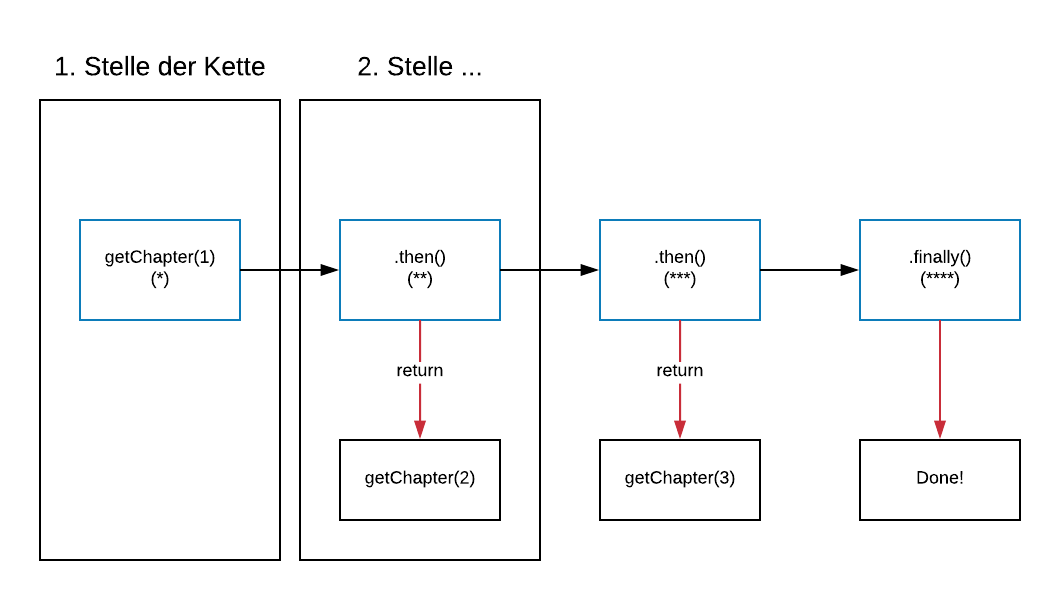
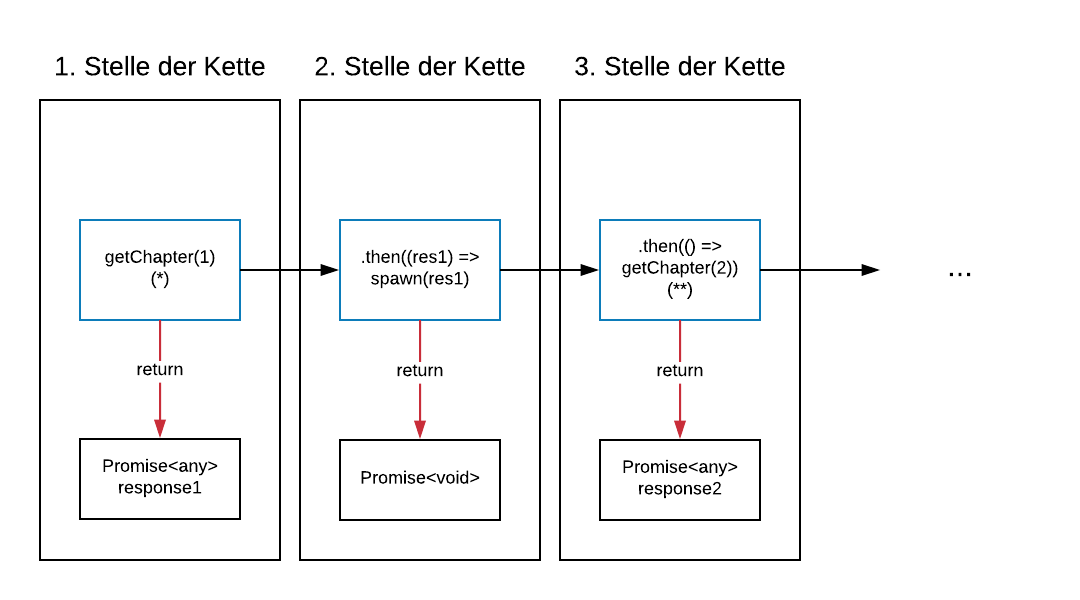
refactored partly promises and adjusted callbacks now need to refactor beginning of promise section and than im done

diff --git a/promises.tex b/promises.tex
@@ -300,16 +300,16 @@ export class Story {
 
 const story = new Story();
 \end{lstlisting}
-\caption{Der Vorteil der Objektorientierung ist die Kapselung der Logik in: Endpunkt-Aufruf zur Verfügung stellen und Ergebnis des Endpunkt-Aufrufs abbilden.}
+\caption{Der Vorteil der Objektorientierung in diesem Fall ist die Kapselung der Logik in: Endpunkt-Aufruf anbieten und Endpunkt-Aufruf verarbeiten.}
 \end{figure}
 
 \noindent
-Ähnlich wie im Beispiel des Callback-Kapitels wird von der REST-API JSONPlaceholder Kapitel in die DOM geladen. In diesem Fall wurde hingegen das objektorientierte Paradigma gewählt. Die Klasse \textbf{HTTP} stellt mit makeRequest() eine Http-Anfrage gegen einen übergebenen Endpunkt. Die \textbf{Fetch API} stellt ein Javascript Interface zur Verfügung um Ressourcen zwischen dem Netzwerk anzufragen. Im Gegensatz zur bisher genutzten Klasse \textbf{XMLHttpRequest}, gibt fetch ein Promise Objekt zurück. Mit der \textbf{Story} Klasse wird der Endpunkt der Datenabfrage als Klassenvariable definiert. Darüberhinaus werden mit getAllStories() und getChapter() die Methoden für die Abfrage definiert. Sollte ein Anwendungsfall sein, alle Kapitel anzuzeigen, würde der Code mit Promises so aussehen:
+Ähnlich wie im Beispiel des Callback-Kapitels wird von der REST-API JSONPlaceholder Kapitel in die DOM geladen. In diesem Fall wurde hingegen das objektorientierte Paradigma gewählt. Die Klasse \textbf{HTTP} macht mit makeRequest() eine Http-Anfrage gegen einen übergebenen Endpunkt. Die \textbf{Fetch API} stellt ein Javascript Interface zur Verfügung, um Ressourcen zwischen dem Netzwerk anzufragen. Im Gegensatz zur bisher genutzten Klasse \textbf{XMLHttpRequest}, gibt fetch() ein Promise Objekt zurück. Mit der \textbf{Story} Klasse wird der Endpunkt der Datenabfrage als Klassenvariable definiert. Darüberhinaus werden mit getAllStories() und getChapter() die Methoden für die Abfrage definiert. Sollte ein Anwendungsfall sein, alle Kapitel anzuzeigen, würde der Code mit Promises so aussehen:
 
 \begin{figure}[H]
 \begin{lstlisting}[basicstyle=\small]
 story.getAllStories()
-    .then((response: XMLHttpRequestResponseType) =>
+    .then((response) =>
         story.spawn(response)
     )
     .finally(() =>
@@ -323,13 +323,17 @@ Alle Kapitel werden mit einem Aufruf am Endpunkt angefragt. Ist das Promise in d
 
 \begin{figure}[H]
 \begin{lstlisting}[basicstyle=\small]
+console.time('Promise-Verkettung');
 story.getChapter(1) // (*)
     .then((response1) => story.spawn(response1))
     .then(() => story.getChapter(2)) // (**)
     .then((response2) => story.spawn(response2))
     .then(() => story.getChapter(3)) // (***)
     .then((response3) => story.spawn(response3))
-    .finally(() => story.displayFinished());
+    .finally(() => {
+        story.displayFinished();
+        console.timeEnd('Promise-Verkettung');
+    });
 \end{lstlisting}
 \caption{Promise-Verkettung für sequentielle Ausführungen}
 \label{Promises-sequential-calls}
@@ -339,9 +343,11 @@ story.getChapter(1) // (*)
 In diesem Fall werden nacheinander drei Kapitel angefragt und im Browser angezeigt. Da die Aufrufe im verketteten Konstrukt voneinander abhängig sind, addiert sich die Zeit die gebraucht wird, um ein Kapitel anzufragen und abzubilden. Die Idee dahinter ist, dass nach jedem Kapitelaufruf und -anzeige gewartet wird, bis dieser Vorgang abgeschlossen ist. Der Fluss sieht dabei so aus:
 
 \begin{enumerate}
-    \item Das initiale Promise wird aufgerufen und das Kapitel angezeigt. Das Promise gelangt in den settled Status. (*)
-    \item Die nächste Stelle der Sequenz wird gestartet, diese endet erst, wenn die Operation innerhalb der then() Methode erfüllt ist (**)
-    \item Die nächste Stelle der Sequenz wird initiiert...(***)
+    \item Das erste Promise getChapter(1) wird aufgerufen (*). Der Status dieses Promise ist erstmal im pending Zustand.
+    \item Bei Ankunft der Antwort, gelangt getChapter(1) in den settled Zustand. Die Daten \textit{response1} werden mit spawn(\textit{response1}) in einer neuen Stelle der Kette in die DOM geladen.
+    \item Das nächste Promise getChapter(2) wird aufgerufen (**). Der Status dieses Promise ist erstmal im pending Zustand. 
+    \item Bei Ankunft der Antwort, gelangt getChapter(2) in den settled Zustand. Die Daten \textit{response2} werden mit spawn(\textit{response2}) in einer neuen Stelle der Kette in die DOM geladen.
+    ...
 \end{enumerate}
 
 \begin{figure}[H]
@@ -350,23 +356,7 @@ In diesem Fall werden nacheinander drei Kapitel angefragt und im Browser angezei
 \end{figure}
 
 \noindent
-Dieser Vorgang endet mit der finally() Verarbeitungsmethode. Zu beachten ist, dass das gesamte Verkettete Konstrukt in einem eigenen Thread läuft. Innerhalb dieses Threads verlaufen die Operationen jedoch sequentiell. Selbst bei einer weiteren Verzögerung der Kapitel innerhalb der Kette, wäre immer noch gewährleistet, dass die Kapitelaufrufe sequentiell ausgeführt werden:
-
-\begin{figure}[H]
-\begin{lstlisting}[basicstyle=\small]
-story.getChapter(1)
-    .then((response1) => story.spawn(response1))
-    .then(() =>
-        new Promise(resolve =>
-            setTimeout(() => resolve(story.getChapter(2)), 5000)))
-    .then((response2) => story.spawn(response2))
-    .then() => ...
-\end{lstlisting}
-\caption{Es wird eine weitere Verzögerung des Aufrufs von story.getChapter(2) auf weitere fünf Sekunden angewendet.}
-\end{figure}
-
-\noindent
-Das liegt daran, da die jeweilige then() Methode ein Promise-Objekt weiterreicht. Somit kann das nächste then() entsprechend nach entstandenem Status und Wert weiterarbeiten. Obwohl die Aufrufe in der Darstellung deutlich lesbarer als geschachtelte Callbacks sind, wird mit diesem Beispiel ebenfalls deutlich, dass bei Promise-Verkettungen der Code in die Länge gezogen wird. Zudem wird hier auch deutlich, dass asynchron Operationen ausgeführt werden. Eine zweite Variante ist, die Kapitel in einem Array Promise zu lagern und parallel mit Promise.all() auszuführen: 
+Dieser Vorgang endet mit der finally() Verarbeitungsmethode. Zu beachten ist, dass das gesamte verkettete Konstrukt in einem eigenen Thread läuft. Innerhalb dieses Threads verlaufen die Operationen sequentiell. Das liegt daran, da die jeweilige then() Methode ein Promise-Objekt weiterreicht. Somit kann das nächste then() entsprechend nach entstandenem Status und Wert weiterarbeiten. Obwohl die Aufrufe in der Darstellung deutlich lesbarer als ineinandergeschachtelte Callbacks sind, wird mit diesem Beispiel ebenfalls deutlich, dass bei Promise-Verkettungen der Code nun aneinandergeschachtelt ist. Es ist immer noch zur erkennen, dass Operationen nicht innerhalb des synchronen Flusses verarbeitet werden. Die nächste Variante ist, die Kapitel in einem Array Promise zu lagern und parallel mit Promise.all() auszuführen.
 
 \begin{figure}[H]
 \begin{lstlisting}[basicstyle=\small]
@@ -376,21 +366,32 @@ for (const n of [1, 2, 3]) {
     chapters.push(story.getChapter(n));
 }
 
+console.time('Promise-all');
 Promise.all(chapters).then((response) =>
     story.spawn(response)
-).finally(() =>
-    story.displayFinished()
-);
+).finally(() => {
+    story.displayFinished();
+    console.timeEnd('Promise-all');
+});
 \end{lstlisting}
 \caption{Promise.all(iterable) bekommt ein iterierbares Objekt als Parameter übergeben}
 \label{Promise-all-example}
 \end{figure}
 
 \noindent
-Ein Promise.all() kann dabei abhängig vom Übergabeparameter verschiedene Rückgabewerte haben. Sollte das eingegebene iterable Argument leer sein, wird Promise.all() synchron erfüllt. Wenn das eingegebene iterable Argument keine Promises enthält, kommt ein asynchron eingelöstes Promise heraus. In allen anderen Fällen gibt ein Promise.all() ein einzelnes ausstehendes Promise zurück, dass eintrifft wenn alle Promises innerhalb des übergebenen Promise-Arrays eingetroffen sind. Die Rückgabewerte entsprechen dann der Reihenfolge der Promises, unabhängig von der Reihenfolge der Erfüllung\cite{promise-all}. Sollte ein Promise fehlschlagen, wird dieser ebenfalls fehlschlagen mit der Fehlernachricht des ersten fehlgeschlagenen Promise\cite{promise-executor}.\\
+Ein Promise.all() kann dabei abhängig vom Übergabeparameter verschiedene Rückgabewerte haben. Sollte das eingegebene iterable Argument leer sein, wird Promise.all() synchron erfüllt. Wenn das eingegebene iterable Argument keine Promises enthält, kommt ein asynchron eingelöstes Promise heraus. In allen anderen Fällen gibt ein Promise.all() ein einzelnes ausstehendes Promise zurück, dass eintrifft wenn alle Promises innerhalb des übergebenen Promise-Arrays eingetroffen sind. Die Rückgabewerte entsprechen dann der Reihenfolge der Promises in dem Array, unabhängig von der Reihenfolge des Erfüllungszeitpunkts \cite{promise-all}. Sollte ein Promise fehlschlagen, wird promise.all() ebenfalls fehlschlagen mit der Fehlernachricht des ersten fehlgeschlagenen Promises \cite{promise-executor}.\\
+
+\begin{figure}[H]
+\begin{lstlisting}
+Promise-all: 1974.587890625ms
+Promise-Verkettung: 4905.918701171875ms
+\end{lstlisting}
+\caption{Vergleich der Gesamtausführungszeit.}
+\label{comparison-promise-all-and-chained-promise}
+\end{figure}
 
 \noindent
-Dabei ist zu beachten, dass die Promises parallel voneinander ausgeführt werden. Der unterschied der verketteten Variante zu Promise.all() liegt in der Art und Weise der Ausführung. Ein Promise.all() führt die Promises parallel aus und es löst sich nur so schnell auf wie das langsamste eintreffende Promise im iterable. Solange passiert nichts. In diesem Fall wird solange wird kein Kapitel in die DOM geladen, bis das langsamste Kapitel eingetroffen ist. In der verketteten Variante hingegen werden die Kapitel nacheinander im Browser geladen. Der Nutzer bekommt den Ladevorgang und das sequentiell laden der Kapitel mit. In der Praxis machen solche Kleinigkeiten eine nutzerfreundliche Applikation aus. 
+Dabei ist zu beachten, dass die Promises parallel voneinander ausgeführt werden. Der unterschied der verketteten Variante zu Promise.all() liegt in der Art und Weise der Ausführung. Ein Promise.all() führt die Promises parallel aus und löst sich nur so schnell auf wie das langsamste eintreffende Promise im iterable. Solange passiert nichts. In diesem Fall wird solange wird kein Kapitel in die DOM geladen, bis das langsamste Kapitel eingetroffen ist. Dafür ist aufgrund der parallelen Ausführung die Gesamtladezeit mit Promise-all() schneller (siehe Abb. \ref{comparison-promise-all-and-chained-promise}). In der verketteten Variante hingegen werden die Kapitel nacheinander verarbeitet. Der Nutzer bekommt die sequentielle Verarbeitung der Kapitel mit. In der Praxis sollte genau abgewogen werden, welches Umsetzungskonzept in welcher Situation mehr Sinn macht.
 
 \begin{figure}[H]
 \centering

diff --git a/callbacks.tex b/callbacks.tex
@@ -134,10 +134,10 @@ console.log(evenNumbers) // 2 4 6
 \end{figure}
 
 \noindent
-Die Methode filter() nimmt Elemente einer Liste heraus, basierend einer Funktion die, die Filterkonditionen bestimmt. Dabei wird zuerst, dass Element aus der Liste entnommen und dann die Kondition geprüft. Da Funktionen als Argument anderer Funktionen übergeben werden, ist es Möglich diese \glqq{}später\grqq{} innerhalb des Funktionsrumpfes aufzurufen \textit{(\glqq{}Call back\grqq{})}. Wenn also eine Funktion als Parameter übergeben wird, wird diese nicht sofort ausgeführt. Eine Funktion die ein Callback als Argument annimmt, wird auch höherrangige Funktion \textit{(Higher order function)} genannt\cite{callbacks-example}.
+Die Methode filter() nimmt Elemente eines Arrays heraus, basierend einer Funktion die, die Filterkonditionen bestimmt. filter() ruft die Callback Funktion einmalig für jedes Element auf. Dabei wird zuerst, dass Element aus der Liste entnommen und dann die Kondition geprüft. Wenn also eine Funktion als Parameter übergeben wird, wird diese nicht sofort ausgeführt. Eine Funktion die ein Callback als Argument annimmt, wird auch höherrangige Funktion \textit{(Higher Order Function)} genannt\cite{callbacks-example}.
 
 \subsection{Beispiel}
-In den jeweiligen Sektionen wird das gleiche Beispiel, in verschiedenen Ausprägungen angewendet und gegenübergestellt. Mit der REST-Api \textbf{JSONPlaceholder} wird ein Endpunkt für die Datenabfrage definiert. Hierbei handelt es sich um eine Open Source Endstelle, die Beispieldaten für das Prototyping oder zum Testen zur Verfügung stellt. Je nach Anwendungsfall werden verschiedene Ausführungen von Anfragen an diese Endstelle gemacht, um die Code-Beispiele so praxisnah wie Möglich zu halten.\\
+In den jeweiligen Sektionen wird das gleiche Beispiel, in verschiedenen Ausprägungen angewendet und gegenübergestellt. Mit der REST-API \textbf{JSONPlaceholder} wird ein Endpunkt für die Datenabfrage definiert. Hierbei handelt es sich um eine Open Source Endstelle, die Beispieldaten für das Prototyping oder zum Testen zur Verfügung stellt. Je nach Anwendungsfall werden verschiedene Ausführungen von Anfragen an diese Endstelle gemacht, um die Code-Beispiele so praxisnah wie Möglich zu halten.\\
 
 \noindent
 Das folgende Beispiel richtet sich nach dem funktionalen Programmierparadigma, da durch die Nutzungen von \textbf{puren Funktionen}, das Callback Prinzip besser zur Geltung kommt. Eine pure Funktion, ist eine Funktion, die beim selben Input jedes mal das gleiche Output wiedergibt. Zu erwähnen ist jedoch, dass das Prinzip der Callbacks auch im objektorientiertem Schema umgesetzt werden kann. 
@@ -242,7 +242,7 @@ getAllChapters(function(response) {
 \end{figure}
 
 \noindent
-In diesem Fall wird spawn() erst aufgerufen, wenn eine Antwort vom Endpunkt ankommt. Um multiple asynchrone Operationen nacheinander auszuführen, müssen Funktionen ineinandergeschachtelt werden. So wird die Ausführung sequentiell fortgesetzt. Als Beispiel wird Kapitel eins bis drei chronologisch aufgerufen:
+In diesem Fall wird spawn() erst aufgerufen, wenn eine Antwort vom Endpunkt ankommt. Da Funktionen als Argument anderer Funktionen übergeben werden, ist es Möglich diese \glqq{}später\grqq{} innerhalb des Funktionsrumpfes aufzurufen \textit{(\glqq{}Call-back\grqq{})}. Um multiple asynchrone Operationen nacheinander auszuführen, müssen Funktionen ineinandergeschachtelt werden. So wird die Ausführung sequentiell fortgesetzt. Als Beispiel wird Kapitel eins bis drei chronologisch aufgerufen:
 
 \begin{figure}[H]
 \begin{lstlisting}[basicstyle=\small]
@@ -284,7 +284,7 @@ getChapter(1, response1 => { // (*)
 Es bildet sich eine Verzweigung, die sich immer weiter nach rechts ausbreitet. Zudem ist es auf dem ersten Blick schwer zu erkennen welcher Error-Callback zu welchem Kapitelaufruf gehört.\\
 
 \noindent
-Callbacks ist nur eine konventionelle Bezeichnung, für die Nutzung von Javascripts Funktionen. Es gibt kein bestimmtes Schlüsselwort oder Objekt in Javascripts Sprache, dass Callback heißt. Anstatt sofort ein Wert zurückzugeben, bietet das Callback Prinzip die Möglichkeit Daten zu verarbeiten, die das Programm nicht sofort zur Verfügung hat. Es sollte jedoch nicht davon ausgegangen werden, dass alle höherrangigen Funktionen asynchron operieren (siehe Abb. \ref{callbacks-with-arrays}). Sie bilden lediglich Javascripts ersten Ansatz Daten asynchron zu verarbeiten. Bei mehreren abhängigen asynchronen Prozessen müssen Callbacks ineinandergeschachtelt werden. Mehrere Level von geschachtelten Callbacks führen zu einer schwer nachvollziehbaren Code-Struktur. Deshalb wird der Code in Abbildung \ref{Nested-Callback-with-catch-error} auch als \glqq{}Callback-Hell\grqq{} bezeichnet. Um aus der Callback-Hell zu entkommen, ebnete Ecmascript 6 den Weg der nativen Nutzung von \textbf{Promises}.
+Callbacks ist nur eine konventionelle Bezeichnung, für die Nutzung von Javascripts Funktionen. Es gibt kein bestimmtes Schlüsselwort oder Objekt in der Javascripts Sprache, dass Callback heißt. Anstatt sofort ein Wert zurückzugeben, bietet das Callback Prinzip die Möglichkeit Daten zu verarbeiten, die das Programm nicht sofort zur Verfügung hat. Es sollte jedoch nicht davon ausgegangen werden, dass alle höherrangigen Funktionen asynchron operieren (siehe Abb. \ref{callbacks-with-arrays}). Sie bilden lediglich Javascripts ersten Ansatz Daten asynchron zu verarbeiten. Bei mehreren abhängigen asynchronen Prozessen müssen Callbacks ineinandergeschachtelt werden. Mehrere Level von geschachtelten Callbacks führen zu einer schwer nachvollziehbaren Code-Struktur. Deshalb wird der Code in Abbildung \ref{Nested-Callback-with-catch-error} auch als \glqq{}Callback-Hell\grqq{} bezeichnet. Um aus der Callback-Hell zu entkommen, ebnete Ecmascript 6 den Weg der nativen Nutzung von \textbf{Promises}.
 
 
 

diff --git a/rxjs.tex b/rxjs.tex
@@ -666,7 +666,7 @@ function insertArticle(article: any) {
     searchResult.insertAdjacentHTML('beforeend',
         `<div class="resultItem">
         <h3 class="resultItem-title">
-          <a href="${url}" target="_blank" rel="noopener">${article.title}</a>
+          <a href="${url}">${article.title}</a>
         </h3>
         ...
       </div>`
@@ -695,7 +695,7 @@ fromEvent(wikipediaSearch, 'input').pipe(
 \end{figure}
 
 \noindent
-In diesem Fall wird mit searchWikipedia() die Wikipedia API aufgerufen, die die Daten im JSON-Format zurückgibt. Der reaktive Teil der Anwendung beginnt mit dem Kreationsoperator \textbf{fromEvent()}. Hierbei wird als Argument ein HTMLElement und das auslösende Event-Ereignis übergeben. Nach jedem Input-Event wird ein neuer Wert innerhalb der Sequenz ausgelöst. \textbf{DebounceTime()} ist ein Operator, dass intern Schedulers nutzt. Mit dem übergebenen Anzahl der Millisekunden als Parameter, kann bestimmt werden nach welcher Verzögerung ein Wert in die Sequenz angenommen wird. Der Timer wird nach jedem Input-Event zurückgesetzt. Ist der Timer abgelaufen wird der zuletzt entstandene Input-Event als neuen Wert in die Sequenz aufgenommen. \textbf{SwitchMap()} stellt sicher, dass nur die Ergebnisse aus der aktuellsten GET-Anfrage emittiert werden. SwitchMap() nimmt ein Callback an, dass immer ein Obsevable zurückgibt. Wenn eine neuer Suchwert als Sequenz ankommt, wird das alte Observable aufgegeben und zu dem neuen Observable gewechselt. In diesem Fall wird eine neue API-Anfrage mit dem neuem Suchwert gestartet.\\
+In diesem Fall wird mit searchWikipedia() die Wikipedia API aufgerufen, die die Daten im JSON-Format zurückgibt. Der reaktive Teil der Anwendung beginnt mit dem Kreationsoperator \textbf{fromEvent()}. Hierbei wird als Argument ein HTMLElement und das auslösende Event-Ereignis übergeben. Nach jedem Input-Event wird ein neuer Wert innerhalb der Sequenz aufgenommen. \textbf{DebounceTime()} ist ein Operator, dass intern Schedulers nutzt. Mit dem übergebenen Anzahl der Millisekunden als Parameter, kann bestimmt werden nach welcher Verzögerung ein Wert in die Sequenz angenommen wird. Der Timer wird nach jedem Input-Event zurückgesetzt. Ist der Timer abgelaufen wird der zuletzt entstandene Input-Event als neuen Wert in die Sequenz aufgenommen. \textbf{SwitchMap()} stellt sicher, dass nur die Ergebnisse aus der aktuellsten GET-Anfrage emittiert werden. SwitchMap() nimmt ein Callback an, dass immer ein Obsevable zurückgibt. Wenn eine neuer Suchwert als Sequenz ankommt, wird das alte Observable aufgegeben und zu dem neuen Observable gewechselt. In diesem Fall wird eine neue API-Anfrage mit dem neuem Suchwert gestartet.\\
 
 \noindent
 Der Vorteil von RxJS sind die mitgelieferten Features, die mit den Operatoren zur Verfügung gestellt wird. Besonders in Javascript ist es wichtig zu wissen, dass das Rad nicht neu erfunden werden muss. In einer klassischen Implementierung wäre die Umsetzung der Anforderungsliste deutlich umfangreicher. 

diff --git a/main.tex b/main.tex
@@ -25,8 +25,6 @@
 {
   keywords = {typeof, new, true, false, function, return, null, switch, var, if, in, while, do, as, else, case, break, class, export, boolean, throw, implements, import, this, constructor, string, number, public, private, static, const, var, let, void, undefined},
   morekeywords = [2]{class, export, boolean, throw, implements, import, this, interface, async, await, for, any},
-  morekeywords = [3]{Promise, Observable},
-  morekeywords = [4]{log, prototype},
   otherkeywords = {;},
   comment = [l]{//},
   morecomment = [s]{/*}{*/},
@@ -41,8 +39,6 @@
   stringstyle = {\color{OliveGreen}},
   keywordstyle = {\color{orange}\bfseries},
   keywordstyle = [2]{\color{orange}},
-  keywordstyle = [3]{\color{Orchid}},
-  keywordstyle = [4]{\color{TealBlue}},
   keywordstyle = [5]{\color{orange}},
   basicstyle = {\ttfamily \color{black}},
   backgroundcolor = {\color{white}},    
